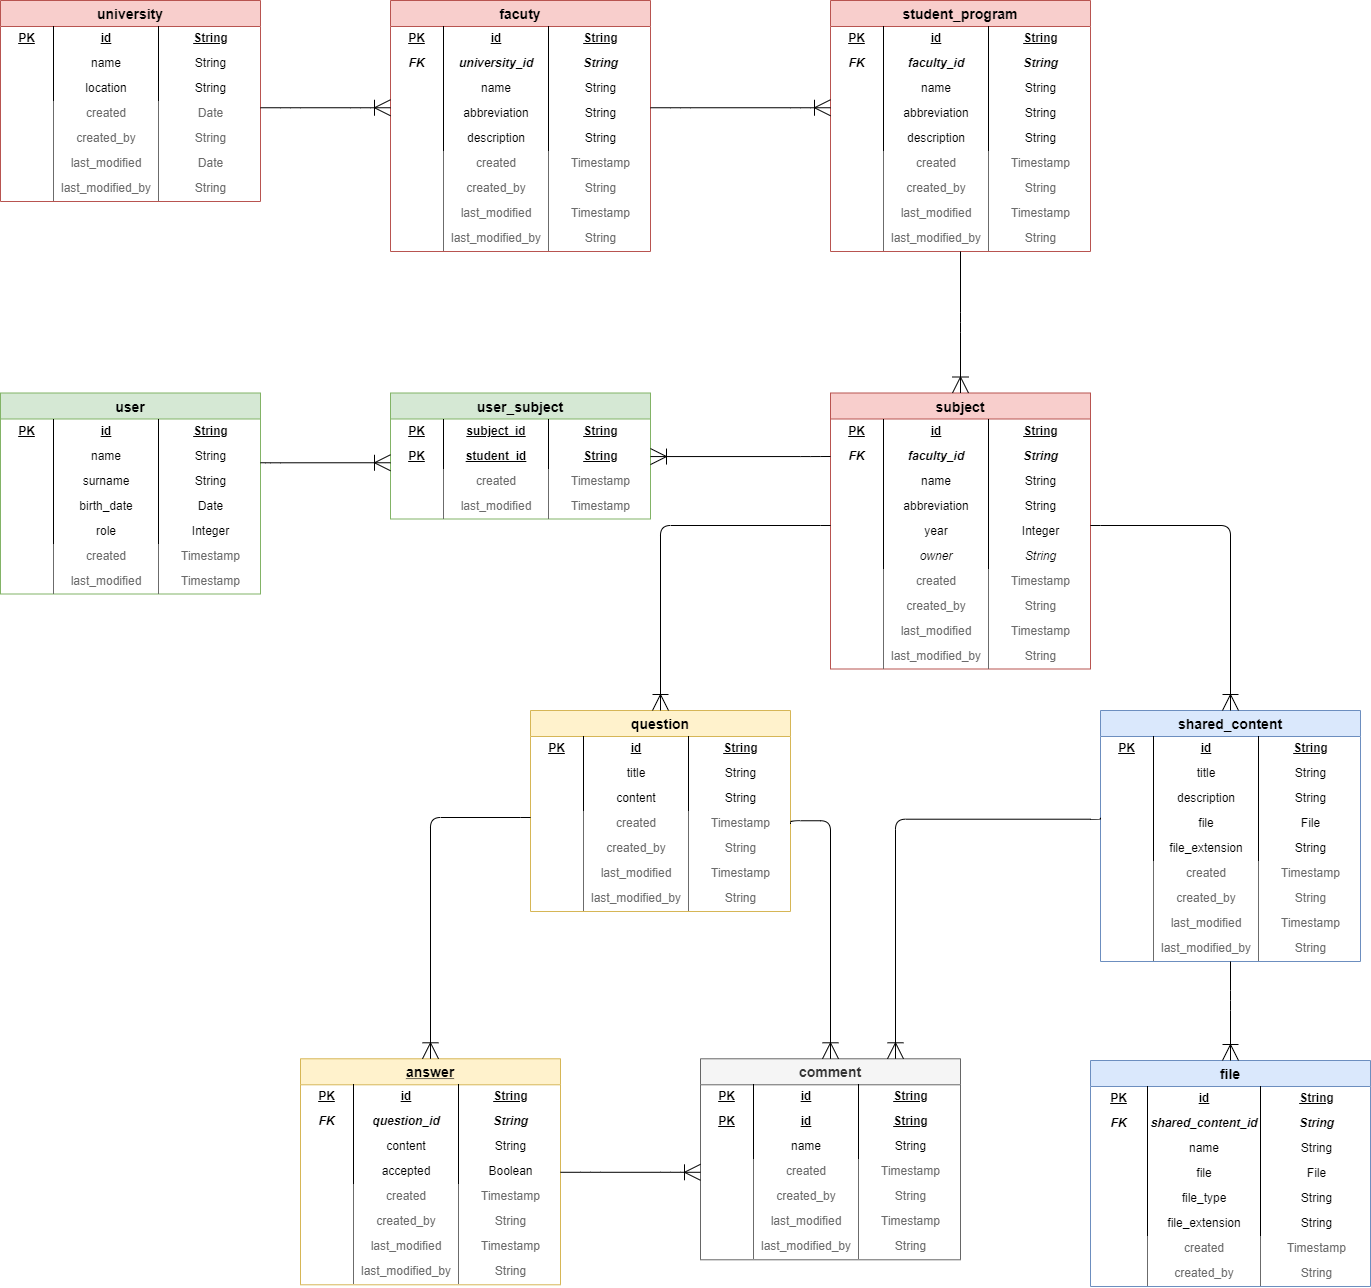
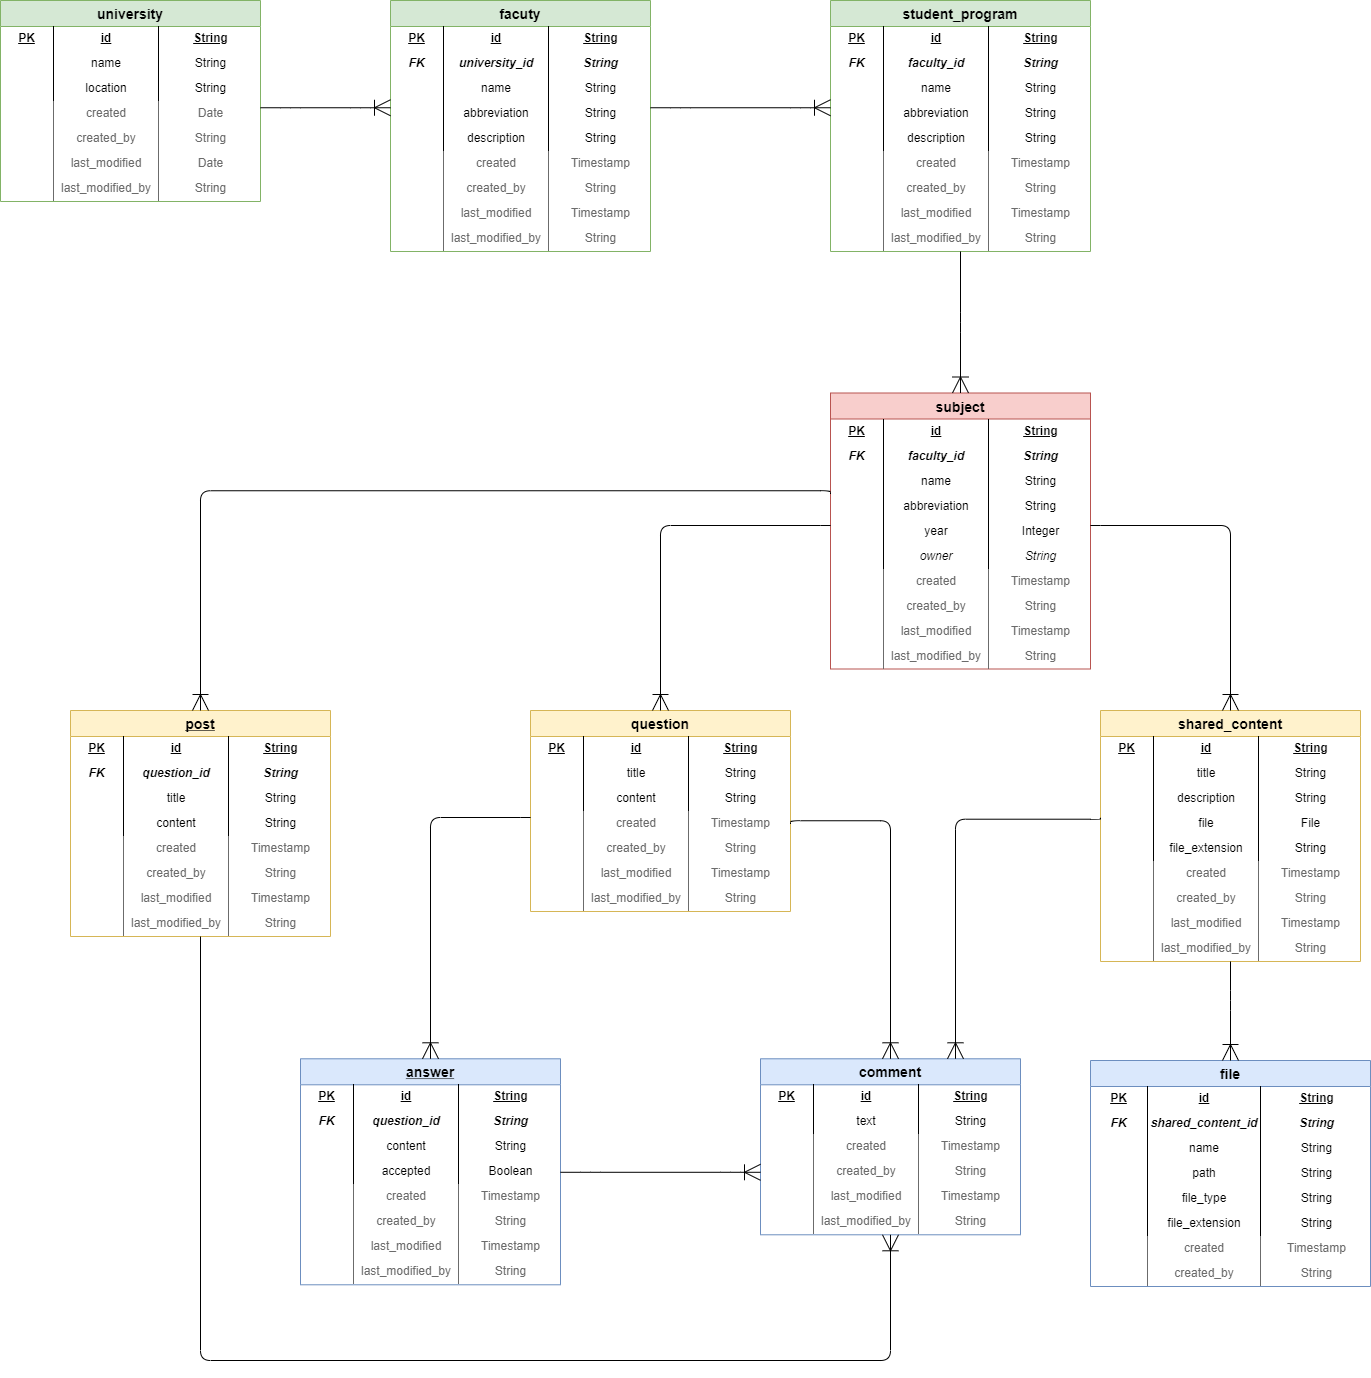
Improved persistence layer diagram

diff --git a/persistence/README.md b/persistence/README.md
@@ -2,3 +2,5 @@
 
 ![ER diagram](../res/img/fri-pointer-db.png)
 
+## TO-DO:
++ Functionality to add images into *question*,*answer* and *post*.
